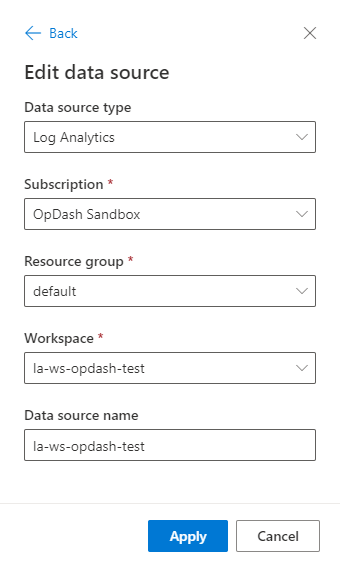
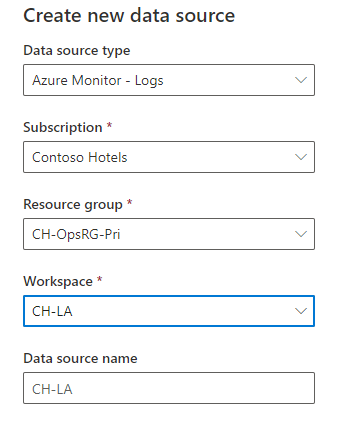
Application insights data source

diff --git a/index.md b/index.md
@@ -41,13 +41,21 @@ Add the required data sources for the dashboards.
         1. Select **Apply**.
             ![](images/Add-ADX-datasource.png)
 
-        </br> For **Log Analytics** data source
+        </br> For **Azure Monitor - Logs** data source
         1. Select a **Subscription** from the drop-down list.
         1. Select a **Resource group** from the drop-down list.
         1. Select a **Workspace** from the drop-down list.
         1. Use the default or modify the **Data source name**, if needed. 
         1. Select **Apply**.
             ![](images/Add-LA-datasource.png)
+
+         </br> For **Azure Monitor - Application Insights** data source
+        1. Select a **Subscription** from the drop-down list.
+        1. Select a **Resource group** from the drop-down list.
+        1. Select a **Workspace** from the drop-down list.
+        1. Use the default or modify the **Data source name**, if needed. 
+        1. Select **Apply**.
+            ![](images/Add-AI-datasource.png)
 
 ## Use Parameters
 
